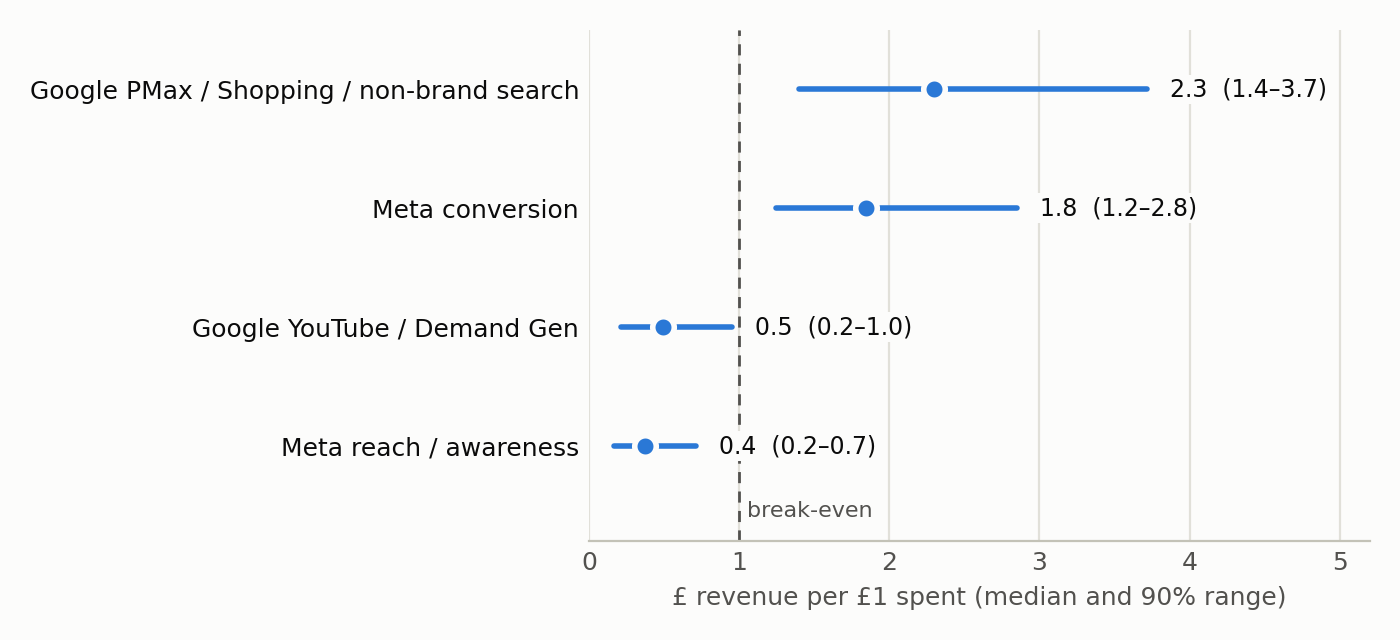
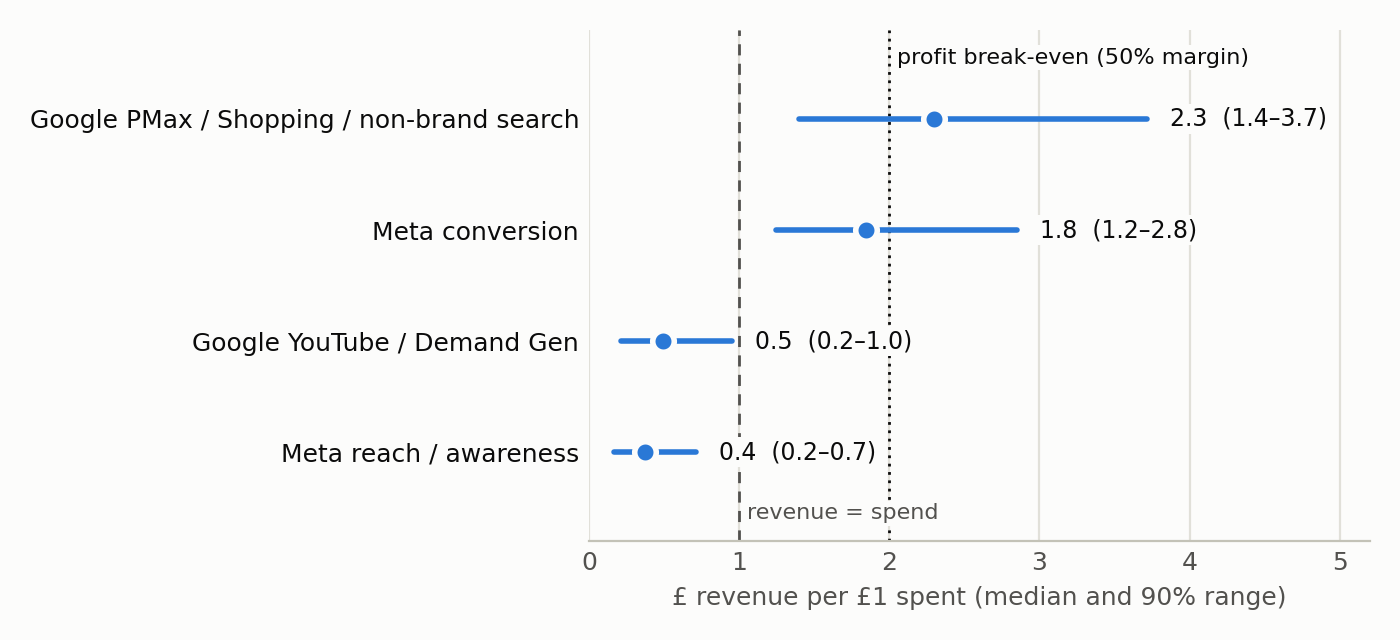
Readout: revenue-equals-spend line, optional profit break-even; wording follows the results
From an external review:
- ROI 1.0 is labelled 'revenue = spend', not 'break-even'. With readout.margin
  set, a dotted profit break-even line sits at 1 / margin
- 'The ranges overlap' only when they do; notes on counted-but-unmodelled
  spend come from readout.notes, not fixed text
- example/mmm.yaml says its values are example conventions to adapt
- .gitignore keeps out .env and credential files, private/, and built
  notebooks (they embed the whole config and priors)

diff --git a/mmm/readout.py b/mmm/readout.py
@@ -42,23 +42,30 @@ def _style(ax, fig, p):
     ax.set_axisbelow(True)
 
 
-def chart_roi(ch: dict, names: dict, sym: str, p: dict, path: pathlib.Path) -> None:
+def chart_roi(ch: dict, names: dict, sym: str, p: dict, path: pathlib.Path, margin: float | None = None) -> None:
     import matplotlib.pyplot as plt
 
     order = sorted(names, key=lambda c: ch[c]["roi_median"])
     fig, ax = plt.subplots(figsize=(7, 0.6 * len(order) + 0.8), dpi=200)
     _style(ax, fig, p)
-    xmax = max(max(ch[c]["roi_ci_hi"] for c in order) * 1.4, 2.0)
+    xmax = max(max(ch[c]["roi_ci_hi"] for c in order) * 1.4, 2.0, (1 / margin) * 1.15 if margin else 0)
     for i, c in enumerate(order):
         v = ch[c]
         ax.plot([v["roi_ci_lo"], v["roi_ci_hi"]], [i, i], color=p["series1"], linewidth=2, solid_capstyle="round")
         ax.scatter([v["roi_median"]], [i], s=60, color=p["series1"], zorder=3, edgecolors=p["surface"], linewidths=2)
         ax.text(v["roi_ci_hi"] + 0.03 * xmax, i, f"{v['roi_median']:.1f}  ({v['roi_ci_lo']:.1f}–{v['roi_ci_hi']:.1f})",
                 va="center", fontsize=8.5, color=p["ink"], bbox={"facecolor": p["surface"], "edgecolor": "none", "pad": 1})
+    # 1.0 = revenue equals spend. Profit break-even is 1 ÷ margin, drawn only when the margin is known.
     ax.axvline(1.0, color=p["secondary"], linewidth=1, linestyle=(0, (4, 3)), zorder=1)
-    ax.text(1.0 + 0.01 * xmax, -0.55, "break-even", color=p["secondary"], fontsize=8, va="center")
+    ax.text(1.0 + 0.01 * xmax, -0.55, "revenue = spend", color=p["secondary"], fontsize=8, va="center", zorder=2,
+            bbox={"facecolor": p["surface"], "edgecolor": "none", "pad": 1})
+    if margin:
+        be = 1 / margin
+        ax.axvline(be, color=p["ink"], linewidth=1, linestyle=(0, (1, 2)), zorder=1)
+        ax.text(be + 0.01 * xmax, len(order) - 0.45, f"profit break-even ({margin:.0%} margin)", color=p["ink"],
+                fontsize=8, va="center", bbox={"facecolor": p["surface"], "edgecolor": "none", "pad": 1})
     ax.set_yticks(range(len(order)), [names[c] for c in order], color=p["ink"])
-    ax.set_ylim(-0.8, len(order) - 0.5)
+    ax.set_ylim(-0.8, len(order) - (0.2 if margin else 0.5))
     ax.set_xlim(0, xmax)
     ax.set_xlabel(f"{sym} revenue per {sym}1 spent (median and 90% range)", color=p["secondary"], fontsize=9)
     fig.tight_layout()
@@ -161,12 +168,17 @@ def main() -> None:
                              "optimisation_scenarios.csv", check=False, stderr=False)
         scen = pd.read_csv(io.StringIO(csv)) if csv.startswith("budget_multiplier") else None
 
-    chart_roi(ch, names, sym, pal, out / "roi.png")
+    margin = cfg["readout"].get("margin")
+    chart_roi(ch, names, sym, pal, out / "roi.png", margin)
     chart_share(ch, names, kpi, pal, out / "share.png")
     if scen is not None:
         chart_budget(scen, names, sym, pal, out / "budget.png")
 
     paid = all_ch.get("pct_contribution_median", 0)
+    best = max(names, key=lambda c: ch[c]["roi_median"])
+    clear = all(ch[best]["roi_ci_lo"] > ch[c]["roi_ci_hi"] for c in names if c != best)
+    lead = ("Its range sits clear of every other channel's, so the lead is solid." if clear else
+            "Its range overlaps at least one other channel's, so treat the order as a guide, not a ranking.")
     L = [f"# {brand} marketing mix model — readout\n",
          f"*Model run `{a.main}` · Google Meridian {d.get('meridian')} · weekly, {' / '.join(cfg['geos'])}, "
          f"{data['first_week']} → {data['last_week']} ({data['weeks']} weeks)*\n",
@@ -175,8 +187,9 @@ def main() -> None:
          "the baseline**: people who already wanted the brand, seasonality and promotions.",
          f"- Across the paid channels, each {sym}1 brought back about **{sym}{all_ch.get('roi_median', 0):.2f}** in "
          f"revenue (90% range {sym}{all_ch.get('roi_ci_lo', 0):.2f}–{sym}{all_ch.get('roi_ci_hi', 0):.2f}).",
-         f"- Highest return: **{names[max(names, key=lambda c: ch[c]['roi_median'])]}**. The ranges overlap, so "
-         "treat the order as a guide, not a ranking.\n",
+         *([f"- At a {margin:.0%} margin, a channel needs more than **{sym}{1 / margin:.2f}** per {sym}1 to pay for "
+            "itself in profit (the dotted line in the chart)."] if margin else []),
+         f"- Highest return: **{names[best]}**. {lead}\n",
          "![Return on spend by channel](roi.png)\n",
          "![Share explained by each driver](share.png)\n",
          "## Channel table\n",
@@ -189,9 +202,10 @@ def main() -> None:
                  f"{v['pct_contribution_median']:.1f}% |")
     L.append("\n*Return on the next " + sym + "1* is the budget number: move money from channels where it is low "
              "to channels where it is high.\n")
+    notes = cfg["readout"].get("notes") or {}
     for col, amount in (data.get("other_spend") or {}).items():
-        L.append(f"`{col}` ({money(amount, sym)}) isn't modelled as a channel: it mostly reaches people who "
-                 "already want the brand, so it is used to measure demand instead.\n")
+        L.append(f"`{col}` ({money(amount, sym)}) is counted but not modelled as a channel. "
+                 + (notes.get(col) or "") + "\n")
 
     if scen is not None:
         oc = cfg["optimisation"] or {}

diff --git a/mmm/config.py b/mmm/config.py
@@ -60,7 +60,7 @@ DEFAULTS: dict = {
     "main_run_marker": "main",
     "planner": {"spreadsheet_id": None, "name": None, "min_shift": 0.5, "max_shift": 1.0},
     "schedule": {"cron": "TZ=Europe/London 0 6 7 1,4,7,10 *", "grid": "refresh.txt"},
-    "readout": {"caveats": [], "palette": {}},
+    "readout": {"caveats": [], "palette": {}, "margin": None, "notes": {}},
     "trends": None,
     "sql": None,
 }
@@ -307,6 +307,10 @@ def validate(conf: Config) -> list[str]:
         for i, o in enumerate(s.get("ads_region_overrides") or []):
             if o.get("geo") not in c["geos"]:
                 e.append(f"sql.ads_region_overrides[{i}].geo: {o.get('geo')!r} is not in geos")
+
+    m = c["readout"].get("margin")
+    if m is not None and not (isinstance(m, (int, float)) and 0 < m <= 1):
+        e.append("readout.margin: a contribution margin between 0 and 1 (e.g. 0.5), or null")
 
     t = c["trends"]
     if t:

diff --git a/tests/test_config.py b/tests/test_config.py
@@ -56,3 +56,9 @@ def test_cloud_block_only_needed_for_cloud(brand):
     conf = config.load(p)                      # local runs don't need it…
     with pytest.raises(config.ConfigError, match="gcp.project"):
         config.require_cloud(conf)             # …cloud commands do
+
+
+def test_readout_margin_must_be_a_share(brand):
+    p = edit(brand, lambda c: c["readout"].update(margin=50))
+    with pytest.raises(config.ConfigError, match="readout.margin"):
+        config.load(p)

diff --git a/README.md b/README.md
@@ -112,7 +112,9 @@ the readout, and a table of how close each setting got to the true returns.
 ## Start a new brand
 
 1. **Copy the example folder** into the brand's own repo: `mmm.yaml`, `priors.csv`, `grids/`.
-   Keep client config and data out of this repo.
+   Keep client config and data out of this repo. If you must keep them in a clone of it, use a
+   `private/` folder: git ignores it, along with built notebooks (they embed the whole config),
+   `.env` files and credential files.
 2. **Fill in `mmm.yaml` from the top down.** Each block says what it's for. Every date must
    be a week start (a Monday by default).
 3. **Build the input table.** Either fill the `sql` block and run
@@ -270,7 +272,7 @@ Every command takes `--config <brand>/mmm.yaml` (or set `MMM_CONFIG`).
 | Build the planner tables | `run_mmm.py planner <run_id> --wait` (or `--local`) |
 | Write them to the sheet | `run_mmm.py publish <planner_run_id> --as-sa` |
 | The whole chain, in the cloud | `run_mmm.py orchestrate --grid refresh.txt` |
-| A readout for people | `readout.py --main <run> --validation <runs…> --sensitivity <runs…> --out DIR` |
+| A readout for people | `readout.py --main <run> --validation <runs…> --sensitivity <runs…> --out DIR` (set `readout.margin` for a profit break-even line) |
 | Rebuild the BigQuery views | `sql_views.py` |
 | Refresh Google Trends | `trends.py fetch --out t.csv`, then `trends.py load --csv t.csv` |
 

diff --git a/example/outputs/readout/readout.md b/example/outputs/readout/readout.md
@@ -6,7 +6,8 @@
 
 - **Paid media explains about 21% of orders. The other ~79% is the baseline**: people who already wanted the brand, seasonality and promotions.
 - Across the paid channels, each £1 brought back about **£1.28** in revenue (90% range £0.97–£1.69).
-- Highest return: **Google PMax / Shopping / non-brand search**. The ranges overlap, so treat the order as a guide, not a ranking.
+- At a 50% margin, a channel needs more than **£2.00** per £1 to pay for itself in profit (the dotted line in the chart).
+- Highest return: **Google PMax / Shopping / non-brand search**. Its range overlaps at least one other channel's, so treat the order as a guide, not a ranking.
 
 ![Return on spend by channel](roi.png)
 
@@ -23,7 +24,7 @@
 
 *Return on the next £1* is the budget number: move money from channels where it is low to channels where it is high.
 
-`brand_search_spend` (£23,892) isn't modelled as a channel: it mostly reaches people who already want the brand, so it is used to measure demand instead.
+`brand_search_spend` (£23,892) is counted but not modelled as a channel. Brand search mostly reaches people who already want the brand, so its clicks are used to measure demand instead.
 
 ## Nov–Dec scenarios
 
